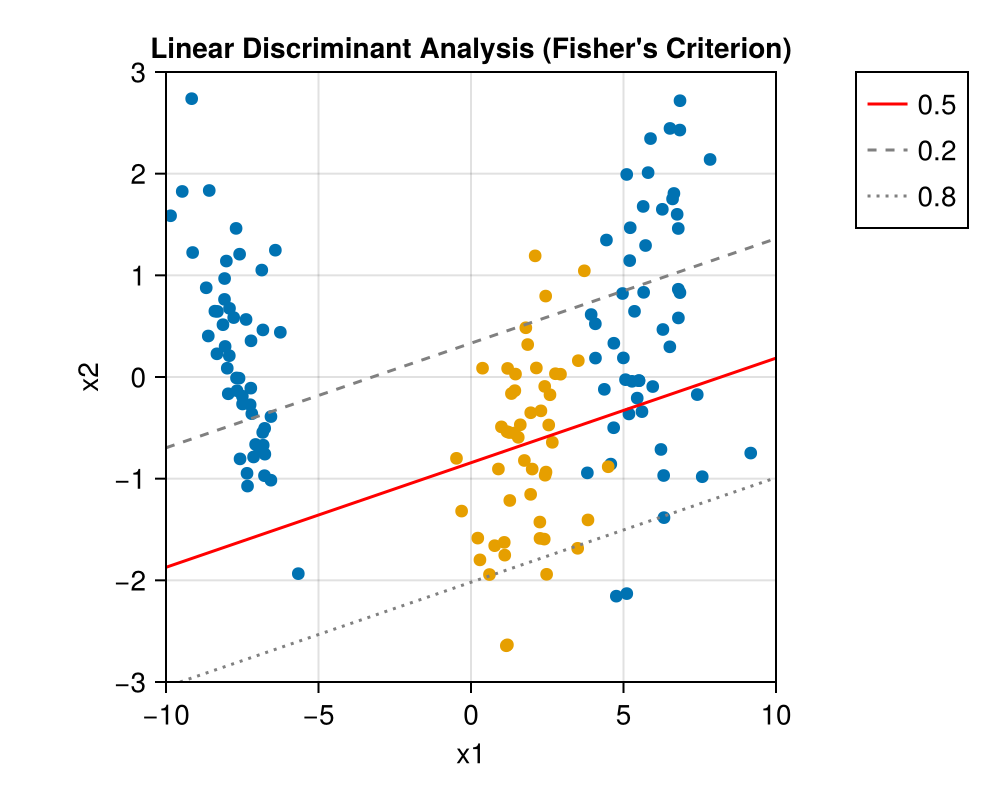
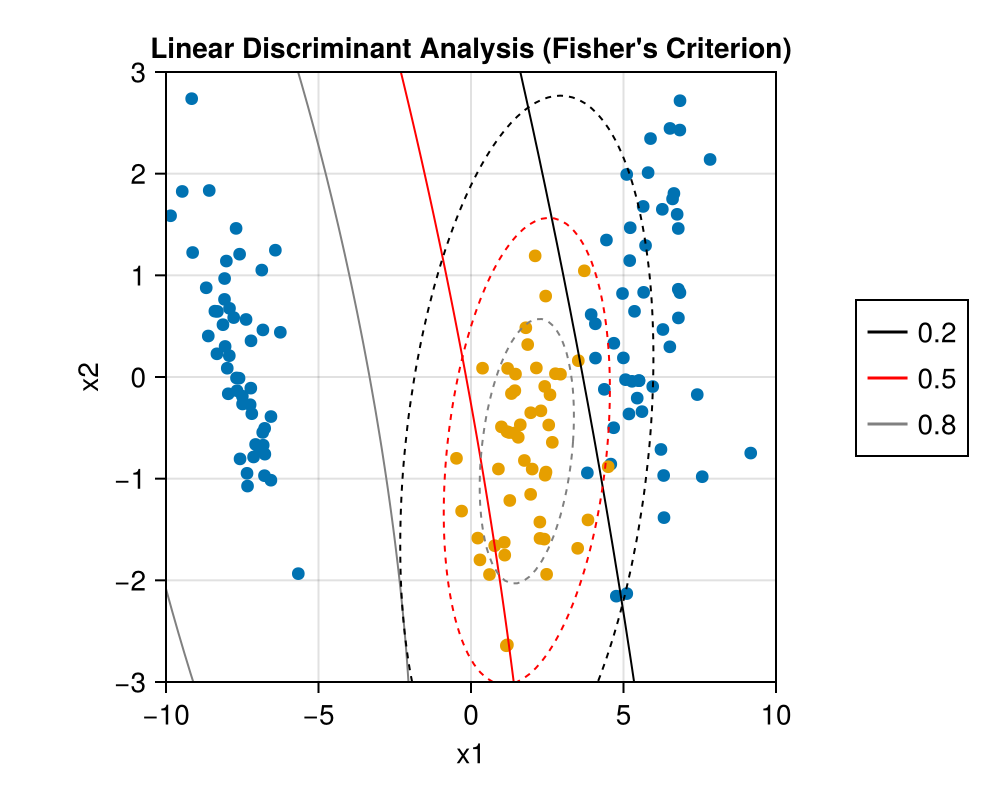
二つのガウス核関数による非線形特徴写像

diff --git a/Julia's note/2.22 CairoMakie.md b/Julia's note/2.22 CairoMakie.md
@@ -15,7 +15,7 @@ axis = Axis(fig[1,1],
     )
 lines!(axis, 0..5, sin)    # 線描画
 scatter!(ax, X, Y)    # 散布図
-contour!(ax, X, Y, Z, levels=[lebel])    # 等高線, Zが高さ, Levelsが等高線を描画する高さ
+contour!(ax, X, Y, Z, levels=[lebel])    # 等高線, X,Yはレンジ, Zが高さ, Levelsが等高線を描画する高さのVector
 save("output.png", fig)    # 保存
 fig　　　　# 表示
 ```
@@ -82,3 +82,41 @@ lbl = Label(f[1, 1], "右上のラベル",
 	- `:blue` / `"blue"` ：青
 	- `:green` / `"green"` ：緑
 	- `:black` / `"black"` ：黒
+
+### 4. グリッドの張り方
+- 2次元の場合
+     - 単純に（推奨） :
+	    ```julia
+	    # グリッドポイントの作成
+		    x1_range = range(-10, 10, length=100)
+		    x2_range = range(-3, 3, length=100)
+		    
+		# 各グリッドポイントに対してガウス核関数を適用
+	    z = [f(α, μ, Σ, [x1, x2]) for x1 in x1_range, x2 in x2_range]
+	    ```
+	- **`collect`**  : より標準的で、メモリ効率も良い
+	    ```julia
+	    # グリッドポイントの作成
+	    x1_range = range(-10, 10, length=100)
+	    x2_range = range(-3, 3, length=100)
+	    
+	    # メッシュグリッド的に全ての組み合わせを作成
+	    grid = collect.(Iterators.product(x1_range, x2_range))
+	    
+	    # 各グリッドポイントに対してガウス核関数を適用
+	    z = [f(α, μ, Σ, grid[i,j]) for i in eachindex(grid, 1), j in eachindex(grid, 2)]
+
+	    ```
+    - **`SVector`** — `StaticArrays.jl`パッケージが必要で、高速だが依存関係が増える
+    ```julia
+	# グリッドポイントの作成
+	x1_range = range(-10, 10, length=100)
+	x2_range = range(-3, 3, length=100)
+	
+	# メッシュグリッド的に全ての組み合わせを作成
+	grid = [SVector(x1, x2) for x1 in x1_range, x2 in x2_range]
+	
+	# 各グリッドポイントに対してガウス核関数を適用
+	z = [f(α, μ, Σ, grid[i,j]) for i in 1:length(x1_range), j in 1:length(x2_range)]
+	```
+- 実際には、内包表記で直接 `[x1, x2]` という配列を作るのが最もシンプル。`SVector` は特に必要がなければ使わなくて大丈夫。

diff --git a/Julia's note/5.2 LaTeX.md b/Julia's note/5.2 LaTeX.md
@@ -58,3 +58,11 @@
 | ≒ | `\fallingdotseq` | ほぼ等しい（主に日本で使われる「≒」） |
 | ≃ | `\simeq` | ほぼ等しい（漸近的に等しい） |
 | ~ | `\sim` | 相似、比例する、〜のオーダー |
+### 10. 行列
+| **LaTeXコマンド**                                  | **記述結果**                                       |
+| ---------------------------------------------- | ---------------------------------------------- |
+| `\begin{matrix} a & b \\ c & d \end{matrix}`   | $\begin{matrix} a & b \\ c & d \end{matrix}$   |
+| `\begin{pmatrix} a & b \\ c & d \end{pmatrix}` | $\begin{pmatrix} a & b \\ c & d \end{pmatrix}$ |
+| `\begin{bmatrix} a & b \\ c & d \end{bmatrix}` | $\begin{bmatrix} a & b \\ c & d \end{bmatrix}$ |
+| `\begin{vmatrix} a & b \\ c & d \end{vmatrix}` | $\begin{vmatrix} a & b \\ c & d \end{vmatrix}$ |
+| `\begin{Vmatrix} a & b \\ c & d \end{Vmatrix}` | $\begin{Vmatrix} a & b \\ c & d \end{Vmatrix}$ |